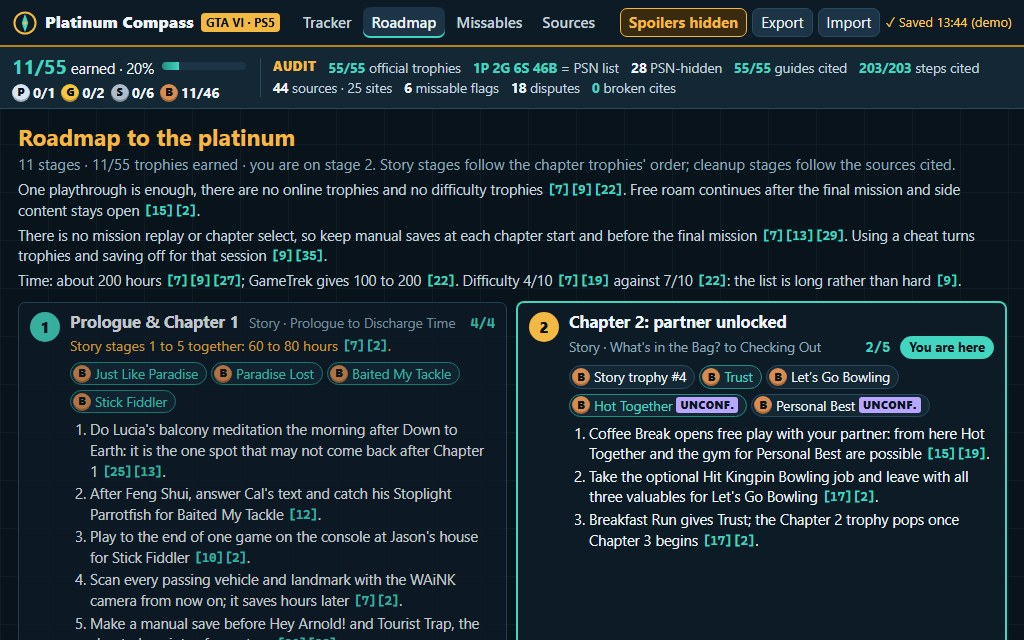
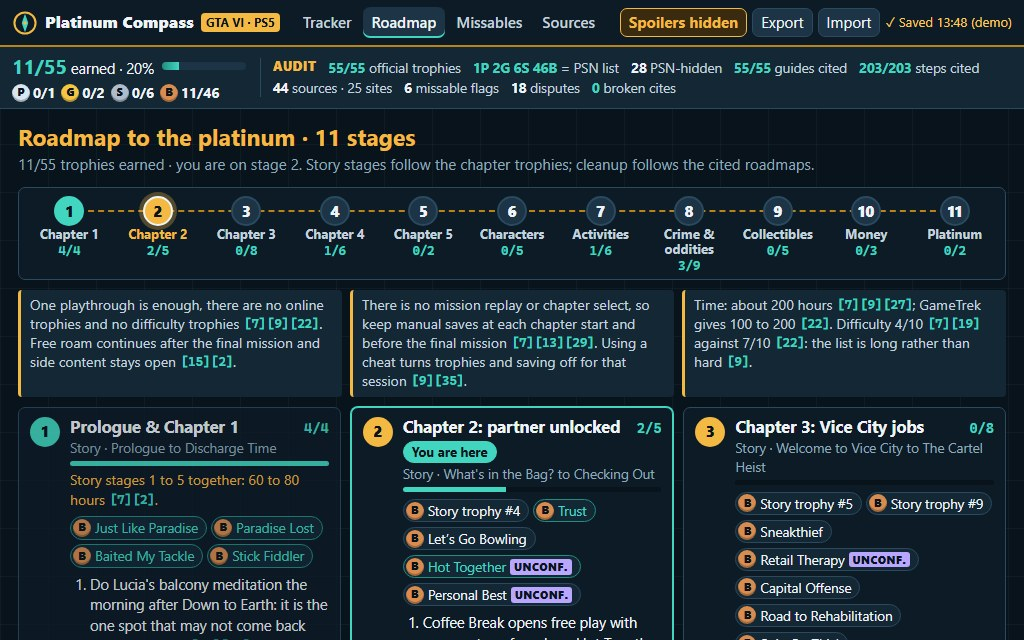
Roadmap route strip, story cut-offs, tighter missables; final screenshots
Roadmap gets a waypoint strip of all 11 stages and cited fact cards;
the missables view adds a cited list of story cut-off points and fits
every flagged row; tracker cover layout fits counter, missable flag,
dispute and cited steps at 1024x640. main.ts warns on stderr if a guide
is missing.

Changed region(s): [[0.0, 0.1875, 1.0, 1.0]]

diff --git a/app/css/parts.css b/app/css/parts.css
@@ -184,7 +184,21 @@
 .roadmap-note { color: var(--text-soft); font-size: 14.5px; }
 
 /* Roadmap */
-.stage-list { list-style: none; margin: 0; padding: 0; display: grid; grid-template-columns: repeat(auto-fill, minmax(450px, 1fr)); gap: 10px; }
+.route-strip { list-style: none; margin: 0 0 10px; padding: 8px 6px 6px; display: grid; position: relative; background: var(--ink-1); border: 1px solid var(--ink-line); border-radius: var(--radius); }
+.route-strip::before { content: ""; position: absolute; left: 4%; right: 4%; top: 22px; border-top: 2px dashed var(--brass-deep); }
+.waypoint { position: relative; text-align: center; }
+.waypoint a { display: flex; flex-direction: column; align-items: center; gap: 1px; color: var(--text-soft); text-decoration: none; }
+.waypoint-dot { width: 30px; height: 30px; border-radius: 50%; display: grid; place-items: center; font-weight: 800; background: var(--ink-3); border: 2px solid var(--ink-line); color: var(--text); position: relative; }
+.waypoint.complete .waypoint-dot { background: var(--needle); border-color: var(--needle); color: var(--ink-0); }
+.waypoint.current .waypoint-dot { background: var(--brass); border-color: var(--text); color: var(--ink-0); box-shadow: 0 0 0 4px rgba(244, 185, 66, 0.3); }
+.waypoint-name { font-size: 13px; font-weight: 700; line-height: 1.15; }
+.waypoint.current .waypoint-name { color: var(--brass); }
+.waypoint-count { font: 700 12.5px var(--mono); color: var(--needle); }
+.roadmap-facts { display: grid; grid-template-columns: repeat(3, 1fr); gap: 8px; margin-bottom: 10px; }
+.roadmap-facts .roadmap-note { margin: 0; padding: 6px 9px; background: var(--ink-2); border-left: 3px solid var(--brass); border-radius: 4px; font-size: 14px; line-height: 1.35; }
+.stage-list { list-style: none; margin: 0; padding: 0; display: grid; grid-template-columns: repeat(auto-fill, minmax(310px, 1fr)); gap: 10px; align-items: start; }
+.stage-bar { height: 5px; background: var(--ink-0); border-radius: 3px; overflow: hidden; margin: 4px 0; }
+.stage-bar span { display: block; height: 100%; background: var(--needle); }
 .stage-card { display: flex; gap: 10px; background: var(--ink-1); border: 1px solid var(--ink-line); border-radius: var(--radius); padding: 9px 11px; }
 .stage-card.current { border-color: var(--needle); box-shadow: 0 0 0 1px var(--needle); }
 .stage-card.focused { border-color: var(--brass); }
@@ -194,7 +208,7 @@
 .stage-body { flex: 1; min-width: 0; }
 .stage-head { display: flex; flex-wrap: wrap; gap: 4px 10px; align-items: baseline; }
 .stage-head h2 { font-size: 16.5px; }
-.stage-when { color: var(--text-faint); font-size: 13.5px; }
+.stage-when { color: var(--text-faint); font-size: 13.5px; margin: 1px 0 0; }
 .stage-progress { margin-left: auto; font: 700 14px var(--mono); color: var(--needle); }
 .stage-effort { margin: 3px 0; color: var(--brass); font-size: 14px; }
 .stage-trophies { list-style: none; display: flex; flex-wrap: wrap; gap: 4px; margin: 6px 0; padding: 0; }
@@ -209,10 +223,17 @@
 .missable-matrix { border-collapse: collapse; width: 100%; font-size: 14.5px; }
 .missable-matrix th, .missable-matrix td { border: 1px solid var(--ink-line); padding: 4px 7px; text-align: left; vertical-align: top; }
 .missable-matrix thead th { background: var(--ink-2); font-size: 13px; color: var(--text-soft); position: sticky; top: 0; }
-.missable-matrix .trophy-col a { color: var(--text); display: inline-flex; gap: 5px; align-items: center; font-weight: 700; white-space: nowrap; }
+.missable-matrix .trophy-col a { color: var(--text); display: flex; gap: 5px; align-items: center; font-weight: 700; white-space: nowrap; margin-bottom: 3px; }
+.missable-matrix tbody .trophy-col { width: 215px; }
+.story-cutoffs { margin-top: 12px; }
+.story-cutoffs h2 { font-size: 17px; color: var(--brass); }
+.story-cutoffs p { margin: 2px 0 6px; font-size: 14px; }
+.cutoff-list { list-style: none; margin: 0; padding: 0; display: grid; grid-template-columns: 1fr 1fr; gap: 4px 14px; font-size: 14.5px; }
+.cutoff-list li { display: flex; gap: 8px; align-items: baseline; padding: 3px 0; border-bottom: 1px solid var(--ink-line); }
+.cutoff-chapter { flex: none; width: 58px; font: 700 12.5px var(--mono); color: var(--brass); }
 .missable-matrix tr.earned .trophy-col a { color: var(--needle); }
 .chapter-col { text-align: center; white-space: nowrap; }
-.cell { text-align: center !important; font-weight: 800; font-size: 15px; vertical-align: middle !important; width: 52px; }
+.cell { text-align: center !important; font-weight: 800; font-size: 15px; vertical-align: middle !important; width: 46px; }
 .cell-open { background: rgba(66, 214, 192, 0.18); color: var(--needle); }
 .cell-last { background: rgba(255, 122, 102, 0.28); color: var(--coral); }
 .cell-closed { background: rgba(8, 19, 28, 0.9); color: #5e7586; }
@@ -236,6 +257,7 @@
 .sources-table tr.focused { background: rgba(244, 185, 66, 0.15); }
 .source-note { display: block; color: var(--text-faint); font-size: 13px; }
 .used-by { font: 700 14px var(--mono); color: var(--needle); text-align: right; }
+.sources-table td:nth-child(4) { white-space: nowrap; font-size: 13px; color: var(--text-soft); }
 .dispute-register h2 { font-size: 17px; color: var(--brass); margin-bottom: 4px; }
 .dispute.compact .dispute-side { margin: 4px 0; }
 .dispute-trophy { font-weight: 800; }

diff --git a/app/js/views/roadmap.js b/app/js/views/roadmap.js
@@ -1,5 +1,6 @@
-// The roadmap to the platinum: stages in order (story chapters first, then cleanup), each with its trophies and
-// their earned state, its cited steps, and effort figures only where a source gives them. Loaded on demand.
+// The roadmap to the platinum: a route strip of every stage as a waypoint with its progress, cited fact cards, then
+// one card per stage (story chapters first, then cleanup) with its trophies, earned state, effort figures where a
+// source gives them, and cited steps. Loaded on demand.
 import { el, mount } from '../dom.js';
 import { visibleTitle } from '../spoilers.js';
 import { citedText, gradeBadge, missableTag } from './cited-text.js';
@@ -11,14 +12,29 @@ export function renderRoadmapView(root, model, store, ui, focusStageId) {
   mount(root,
     el('div', { id: 'roadmap-view', class: 'roadmap-view' },
       el('header', { class: 'view-head' },
-        el('h1', { text: 'Roadmap to the platinum' }),
-        el('p', { class: 'muted', text: `${model.stages.length} stages · ${earnedAll}/${model.trophies.length} trophies earned · you are on stage ${now.order}. Story stages follow the chapter trophies' order; cleanup stages follow the sources cited.` }),
-        model.roadmapNotes.map((note) => citedText(note, model, 'p', { class: 'roadmap-note' }))),
-      el('ol', { class: 'stage-list' }, model.stages.map((stage) => renderStage(stage, model, store, ui, stage.id === now.id, stage.id === focusStageId)))));
+        el('h1', { text: `Roadmap to the platinum · ${model.stages.length} stages` }),
+        el('p', { class: 'muted', text: `${earnedAll}/${model.trophies.length} trophies earned · you are on stage ${now.order}. Story stages follow the chapter trophies; cleanup follows the cited roadmaps.` })),
+      renderRouteStrip(model, store, now),
+      el('div', { class: 'roadmap-facts' }, model.roadmapNotes.map((note) => citedText(note, model, 'p', { class: 'roadmap-note' }))),
+      el('ol', { class: 'stage-list' }, model.stages.map((stage) => renderStage(stage, model, store, stage.id === now.id, stage.id === focusStageId)))));
   if (focusStageId) root.querySelector(`#stage-${focusStageId}`)?.scrollIntoView({ block: 'start' });
 }
 
-function renderStage(stage, model, store, ui, isCurrent, isFocused) {
+/** Every stage as a compass waypoint on one line: number, short name and earned/total, the current one ringed. */
+function renderRouteStrip(model, store, now) {
+  return el('ol', { id: 'route-strip', class: 'route-strip', style: `grid-template-columns:repeat(${model.stages.length},1fr)`, attrs: { 'aria-label': 'Stages at a glance' } },
+    model.stages.map((stage) => {
+      const done = stage.trophies.filter((id) => store.isEarned(id)).length;
+      const state = done === stage.trophies.length ? 'complete' : stage.id === now.id ? 'current' : 'ahead';
+      return el('li', { class: `waypoint ${state}` },
+        el('a', { href: `#/roadmap/${stage.id}`, title: stage.title },
+          el('span', { class: 'waypoint-dot', text: String(stage.order) }),
+          el('span', { class: 'waypoint-name', text: stage.short ?? stage.title }),
+          el('span', { class: 'waypoint-count', text: `${done}/${stage.trophies.length}` })));
+    }));
+}
+
+function renderStage(stage, model, store, isCurrent, isFocused) {
   const trophies = stage.trophies.map((id) => model.trophyById.get(id));
   const done = trophies.filter((t) => store.isEarned(t.id)).length;
   return el('li', { id: `stage-${stage.id}`, class: `stage-card ${isCurrent ? 'current' : ''} ${isFocused ? 'focused' : ''} ${done === trophies.length ? 'complete' : ''}`.trim() },
@@ -26,9 +42,10 @@ function renderStage(stage, model, store, ui, isCurrent, isFocused) {
     el('div', { class: 'stage-body' },
       el('header', { class: 'stage-head' },
         el('h2', { text: stage.title }),
-        el('span', { class: 'stage-when', text: stage.when }),
         el('span', { class: 'stage-progress', text: `${done}/${trophies.length}` }),
         isCurrent ? el('span', { class: 'tag tag-now', text: 'You are here' }) : null),
+      el('p', { class: 'stage-when', text: stage.when }),
+      el('div', { class: 'stage-bar' }, el('span', { style: `width:${Math.round((done / trophies.length) * 100)}%` })),
       stage.effort ? citedText(stage.effort, model, 'p', { class: 'stage-effort' }) : null,
       el('ul', { class: 'stage-trophies' }, trophies.map((t) => el('li', { class: store.isEarned(t.id) ? 'earned' : '' },
         el('a', { href: `#/tracker/${t.id}`, class: 'stage-trophy' }, gradeBadge(t.grade, 'small'), visibleTitle(t, store), missableTag(t))))),

diff --git a/app/js/views/missables.js b/app/js/views/missables.js
@@ -40,9 +40,21 @@ export function renderMissablesView(root, model, store) {
         el('p', { class: 'legend' }, Object.entries(CELL).filter(([k]) => k !== 'before').map(([k, c]) => el('span', { class: `legend-item cell-${k}` }, el('b', { text: c.mark }), ` ${c.label}`)))),
       el('div', { class: 'matrix-wrap' },
         el('table', { id: 'missable-matrix', class: 'missable-matrix' },
-          el('thead', {}, el('tr', {}, el('th', { class: 'trophy-col', text: 'Trophy' }), el('th', { text: 'Grade of flag' }),
+          el('thead', {}, el('tr', {}, el('th', { class: 'trophy-col', text: 'Trophy · flag' }),
             model.chapters.map((c) => el('th', { class: 'chapter-col', title: c.title ?? c.label, text: c.label })), el('th', { class: 'note-col', text: 'Last chance · why' }))),
-          el('tbody', {}, flagged.map((t) => renderMatrixRow(t, model, store)))))));
+          el('tbody', {}, flagged.map((t) => renderMatrixRow(t, model, store))))),
+      renderCutoffs(model)));
+}
+
+/** Story moments where other content closes, by chapter, each cited. */
+function renderCutoffs(model) {
+  if (!model.cutoffs.length) return null;
+  const label = (id) => model.chapters.find((c) => c.id === id)?.label ?? 'Any time';
+  return el('section', { id: 'story-cutoffs', class: 'story-cutoffs' },
+    el('h2', { text: `Other cut-off points · ${model.cutoffs.length}` }),
+    citedText(model.cutoffsNote, model, 'p', { class: 'muted' }),
+    el('ul', { class: 'cutoff-list' }, model.cutoffs.map((c) => el('li', {},
+      el('span', { class: 'cutoff-chapter', text: label(c.chapter) }), citedText(c.text, model)))));
 }
 
 function rankStatus(t) {
@@ -52,8 +64,9 @@ function rankStatus(t) {
 function renderMatrixRow(trophy, model, store) {
   const m = trophy.missable;
   return el('tr', { class: store.isEarned(trophy.id) ? 'earned' : '' },
-    el('th', { class: 'trophy-col', scope: 'row' }, el('a', { href: `#/tracker/${trophy.id}` }, gradeBadge(trophy.grade, 'small'), visibleTitle(trophy, store))),
-    el('td', {}, el('span', { class: `status-pill missable-${m.status}`, text: MISSABLE_LABEL[m.status] })),
+    el('th', { class: 'trophy-col', scope: 'row' },
+      el('a', { href: `#/tracker/${trophy.id}` }, gradeBadge(trophy.grade, 'small'), visibleTitle(trophy, store)),
+      el('span', { class: `status-pill missable-${m.status}`, text: MISSABLE_LABEL[m.status] })),
     model.chapters.map((c, i) => {
       const state = windowStateAt(m, model.chapters, i);
       return el('td', { class: `cell cell-${state}`, title: `${c.label}: ${CELL[state].label}`, text: CELL[state].mark });

diff --git a/app/js/views/sources.js b/app/js/views/sources.js
@@ -9,12 +9,13 @@ export function renderSourcesView(root, model, store, ui, focusNumber) {
   const usage = new Map(model.sources.map((s) => [s.id, []]));
   for (const t of model.trophies) for (const n of citesOfTrophy(t)) usage.get(n)?.push(t);
   const disputes = model.trophies.flatMap((t) => (t.disputes ?? []).map((d) => ({ trophy: t, dispute: d })));
-  const kinds = [...new Set(model.sources.map((s) => s.kind))];
+  const guides = model.sources.filter((s) => /guide|walkthrough|checklist|map|list with tips/.test(s.kind)).length;
+  const news = model.sources.filter((s) => /news/.test(s.kind)).length;
   mount(root,
     el('div', { id: 'sources-view', class: 'sources-view' },
       el('header', { class: 'view-head' },
-        el('h1', { text: 'Sources register' }),
-        el('p', { class: 'muted', text: `${model.sources.length} pages from ${new Set(model.sources.map((s) => s.site)).size} sites, each read for this guide; kinds: ${kinds.join(', ')}. Every step is written in our own words and ends with the numbers of the pages it rests on. Links open only if you follow them; the app itself loads nothing from them.` })),
+        el('h1', { text: `Sources register · ${model.sources.length} pages, ${new Set(model.sources.map((s) => s.site)).size} sites` }),
+        el('p', { class: 'muted', text: `${guides} guides, walkthroughs and maps, ${news} news pages, the rest lists and wikis; each read on the date shown. Steps are our own words, ending in the numbers of the pages they rest on. Links open only if you follow them.` })),
       el('div', { class: 'sources-columns' },
         el('table', { id: 'sources-table', class: 'sources-table' },
           el('thead', {}, el('tr', {}, ['#', 'Site · page', 'Kind', 'Read', 'Cited by'].map((h) => el('th', { text: h })))),

diff --git a/main.ts b/main.ts
@@ -12,13 +12,22 @@
 // Outside the grader's container, MAKEFUN_OUTPUT_DIR stands in for /output:
 //   mkdir -p out && MAKEFUN_OUTPUT_DIR=out node main.ts
 
-import { cpSync, existsSync, mkdirSync, writeFileSync } from 'node:fs';
+import { cpSync, existsSync, mkdirSync, readFileSync, writeFileSync } from 'node:fs';
 import { join } from 'node:path';
 import { fileURLToPath } from 'node:url';
 import { buildDossier } from './vendor/makefun-frontend.ts';
 
 const here = fileURLToPath(new URL('.', import.meta.url));
 const out = process.env.MAKEFUN_OUTPUT_DIR ?? '/output';
+
+// A sanity note before handing in (stderr only, never changes what is written): every trophy needs a non-blank
+// guide, and the list should hold the 55 official trophies.
+const trophyFile = JSON.parse(readFileSync(join(here, 'app', 'data', 'trophies.json'), 'utf8'));
+const trophyList: Array<{ name?: string; guide?: string }> = Array.isArray(trophyFile) ? trophyFile : trophyFile.trophies;
+const unguided = trophyList.filter((t) => !t.guide || !t.guide.trim()).map((t) => t.name);
+if (trophyList.length !== 55 || unguided.length) {
+  console.error(`platinum-compass: ${trophyList.length} trophies listed; without a guide: ${unguided.join(', ') || 'none'}`);
+}
 
 mkdirSync(out, { recursive: true });
 cpSync(join(here, 'app'), join(out, 'app'), { recursive: true });

diff --git a/app/js/audit.js b/app/js/audit.js
@@ -3,6 +3,7 @@
 // flags, disputes, and any citation that points at a source number the sources file does not hold.
 import { citesOfTrophy } from './data.js';
 import { isMissableFlag } from './filters.js';
+import { citeNumbers } from './guide-text.js';
 
 const GRADES = ['platinum', 'gold', 'silver', 'bronze'];
 
@@ -20,7 +21,8 @@ export function computeAudit(model) {
   const citedGuides = trophies.filter((t) => t.guideCites.length > 0).length;
 
   const usedCites = new Set(trophies.flatMap(citesOfTrophy));
-  for (const stage of model.stages) for (const step of stage.steps ?? []) for (const m of String(step).matchAll(/\[(\d+)\]/g)) usedCites.add(Number(m[1]));
+  const roadmapTexts = [...model.stages.flatMap((s) => [...(s.steps ?? []), s.effort]), ...model.roadmapNotes, ...model.cutoffs.map((c) => c.text), model.cutoffsNote];
+  for (const text of roadmapTexts) for (const n of citeNumbers(text)) usedCites.add(n);
   const brokenCites = [...usedCites].filter((n) => !sourceById.has(n));
 
   const missable = trophies.filter(isMissableFlag);

diff --git a/app/js/main.js b/app/js/main.js
@@ -86,7 +86,7 @@ function wireHeaderControls(model, store) {
   byId('export-progress').addEventListener('click', () => {
     const doc = buildExportDocument(store.state, model.trophies);
     downloadProgressFile(doc);
-    showToast(`Exported ${doc.earned.length} earned trophies and ${Object.keys(doc.counters).length} counters to a JSON file.`, 'ok');
+    showToast(`Exported ${plural(doc.earned.length, 'earned trophy', 'earned trophies')} and ${plural(Object.keys(doc.counters).length, 'counter', 'counters')} to a JSON file.`, 'ok');
   });
   const fileInput = byId('import-file');
   byId('import-progress').addEventListener('click', () => fileInput.click());
@@ -100,6 +100,10 @@ function wireHeaderControls(model, store) {
     if (!result.ok) { showToast(`Import refused: ${result.error} Nothing was changed.`, 'error'); return; }
     confirmImport(file.name, result, store);
   });
+}
+
+function plural(n, one, many) {
+  return `${n} ${n === 1 ? one : many}`;
 }
 
 function confirmImport(fileName, result, store) {

diff --git a/app/js/store.js b/app/js/store.js
@@ -112,6 +112,6 @@ export function validateImportedProgress(doc, trophies) {
   return {
     ok: true,
     progress: { earned, counters, revealed, spoilers: doc.spoilers !== false },
-    summary: `${earned.length} earned, ${Object.keys(counters).length} counters`,
+    summary: `${earned.length} earned ${earned.length === 1 ? 'trophy' : 'trophies'} and ${Object.keys(counters).length} ${Object.keys(counters).length === 1 ? 'counter' : 'counters'}`,
   };
 }

diff --git a/app/js/data.js b/app/js/data.js
@@ -32,6 +32,8 @@ export async function loadGuideModel() {
     stages: roadmapDoc.stages,
     stageById,
     roadmapNotes: roadmapDoc.notes ?? [],
+    cutoffs: roadmapDoc.cutoffs ?? [],
+    cutoffsNote: roadmapDoc.cutoffsNote ?? '',
   };
 }
 
